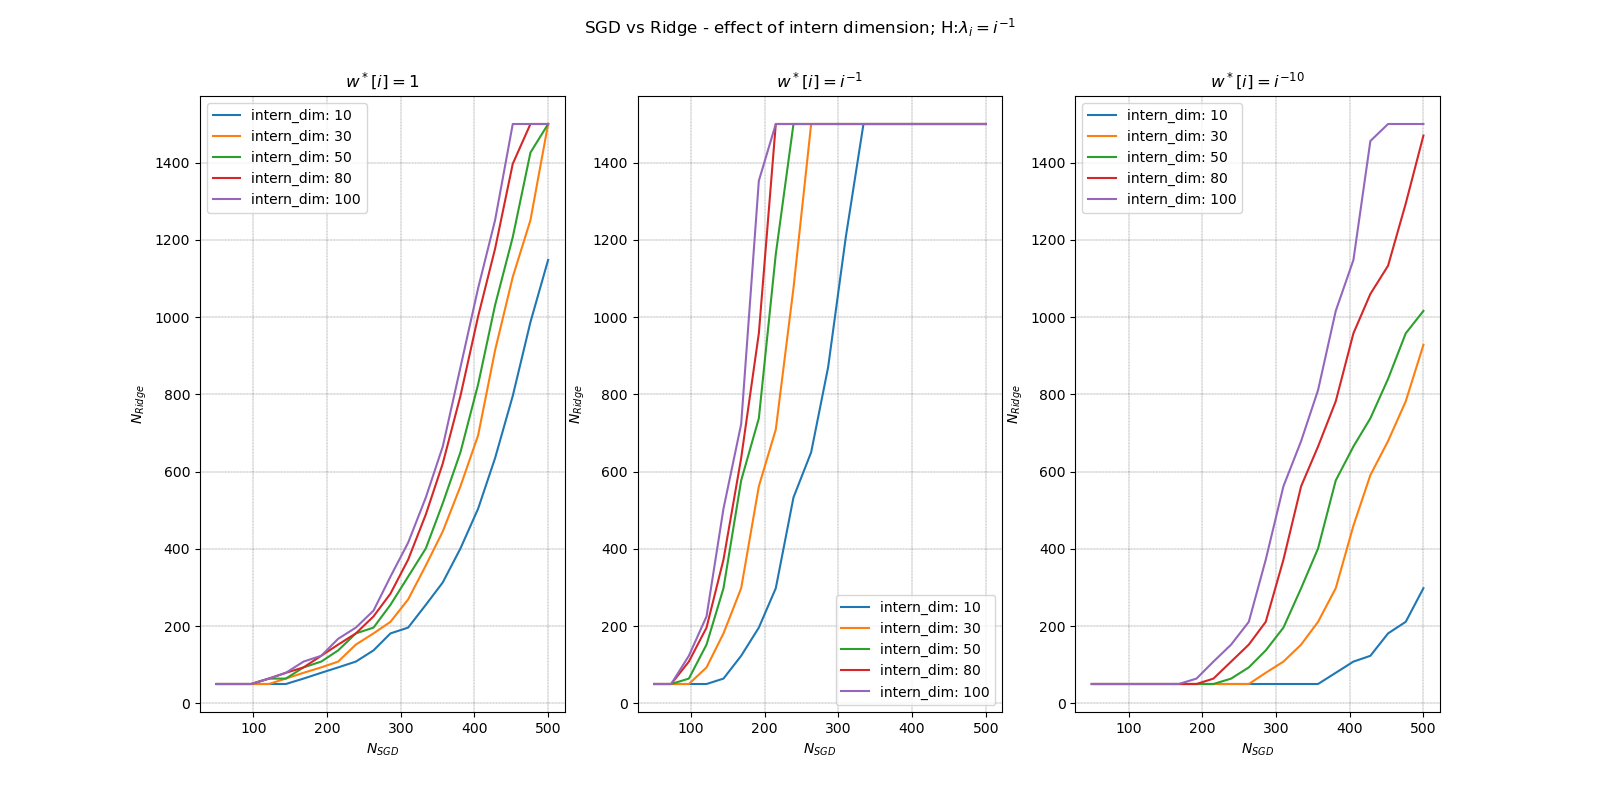
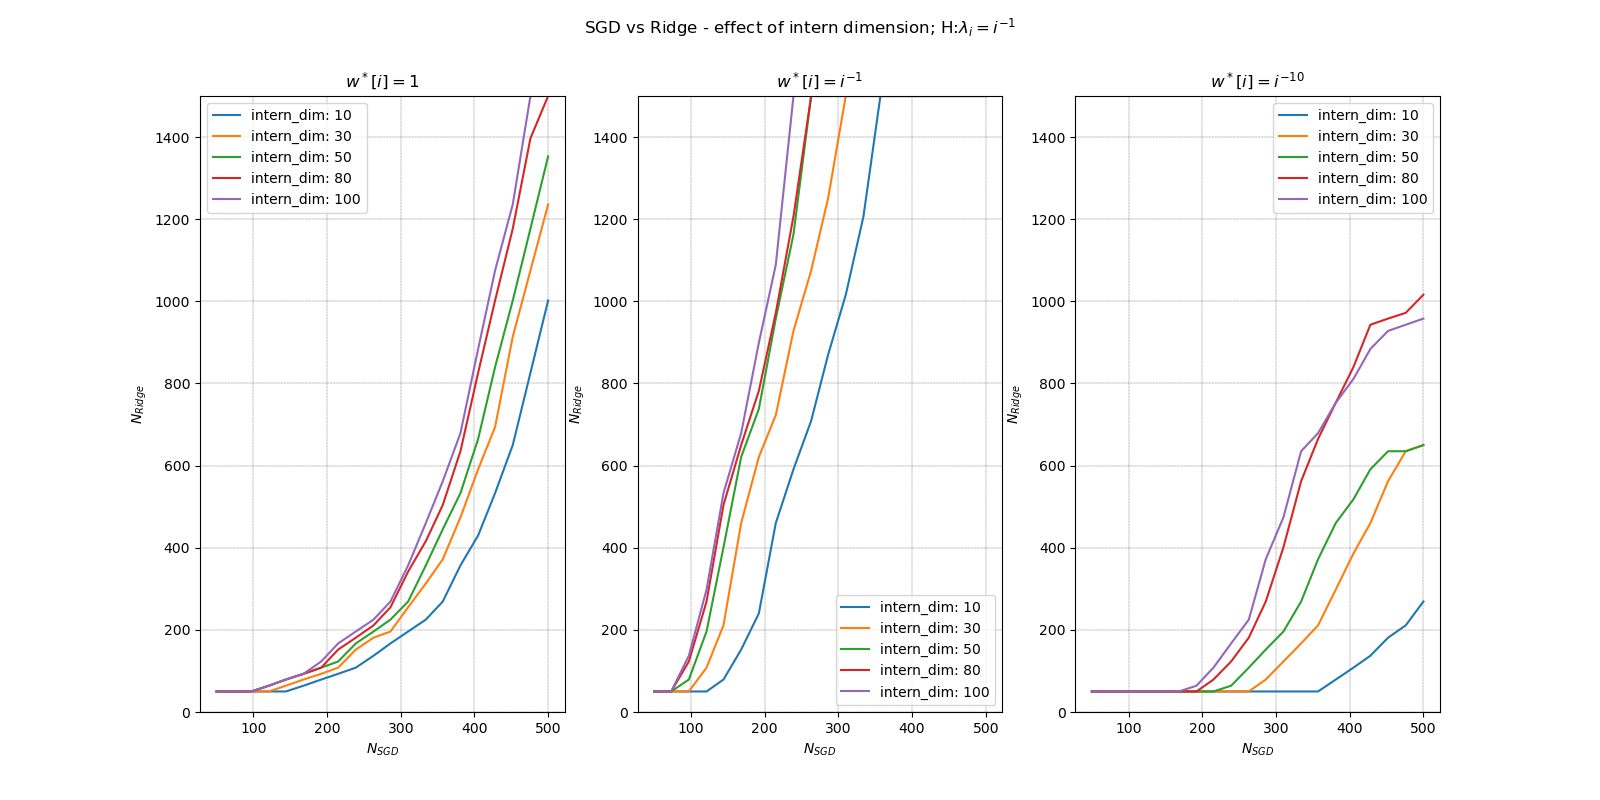
Fix graph axis & use data_gen

diff --git a/benefits_study_indimVAR.py b/benefits_study_indimVAR.py
@@ -5,20 +5,20 @@ import torch
 
 from utils import *
 
-np.random.seed(9)
-torch.manual_seed(9)
+np.random.seed(5)
+torch.manual_seed(5)
 
 ### Parameters
 COMPUTE_DATA_PLOT = True
 
-d = 200//4
+d = 50
 sigma2 = 1
 nb_avg = 20
 
 N_samples = 10000
 
-N_max_ridge = 6000//4
-N_max_sgd = 2000//4
+N_max_ridge = 1500
+N_max_sgd = 500
 n_ridge = np.floor(np.linspace(d,N_max_ridge,100)).astype(dtype=np.uint16)
 n_sgd = np.floor(np.linspace(d,N_max_sgd,20)).astype(dtype=np.uint16)
 
@@ -44,35 +44,29 @@ W_LABELS = [r'$w^*[i]=1$', r'$w^*[i]=i^{-1}$', r'$w^*[i]=i^{-10}$']
 H_LABELS = [r'$\lambda_i=i^{-1}$', r'$\lambda_i=i^{-2}$']
 COLORS = ['tab:blue', 'tab:orange', 'tab:green']
 
+### Computation of data for the plot
 if COMPUTE_DATA_PLOT:
     ### Study
+    # Initialisation
     y_plot = np.zeros((len(intern_dims), len(all_which_h), len(all_which_w), len(n_sgd))) # (h,w, n_sgd)
     sgd_risks = np.zeros((len(intern_dims), len(all_which_h), len(all_which_w), len(n_sgd)))
     ridge_risks = np.zeros((len(all_which_h), len(all_which_w), len(n_ridge)))
     # y_plot[h,w, n] contains the value n_ridge s.t loss(ridge(n_ridge)) ~= loss(sgd(n_sgd[n]))
+
     for i,which_h in enumerate(all_which_h):
         for j,which_w in enumerate(all_which_w):
+            ### Generate new data (from same distribution)
+            data, observations = generate_data(p=d, n=N_max_ridge, sigma2=sigma2, which_w=which_w, which_h=which_h)
+
             ### RIDGE PART
             suffix_ridge = suffix_filename(ridge_bool=True, w=which_w, h=which_h, d=d)
             SAVE_RIDGE_ITERATE = SAVE_DIR_RIDGE + 'iterates'+suffix_ridge+'.npy'
             w_ridge = np.load(SAVE_RIDGE_ITERATE) # (nb_avg, len(n_ridge), d)
-            ### Generate new data (from same distribution)
-            w_true = np.float_power(np.arange(1,d+1), -which_w) # true parameter
-            H = np.diag(np.float_power(np.arange(1,d+1), -which_h))
-            data = np.random.multivariate_normal(
-                np.zeros(d),
-                H,
-                size=N_samples) # shape (n,d)    
-            observations = [np.random.normal(
-                np.dot(w_true, x),
-                np.sqrt(sigma2))
-                for x in data]
-            observations = np.array(observations) # shape (n,)
-
-            ### Compute variables of interest
+            
+            # Compute variables of interest
             ridge_errors = np.zeros((nb_avg, len(n_ridge)))
-            for k1 in range(nb_avg):
-                for k2,n in enumerate(n_ridge):
+            for k1 in range(nb_avg): # for each model
+                for k2,n in enumerate(n_ridge): # for each n
                     ridge_errors[k1,k2] = objective(data, observations, w_ridge[k1,k2,:])
 
             # Outlier detection
@@ -80,25 +74,27 @@ if COMPUTE_DATA_PLOT:
                 n_out_ridge = (ridge_errors>threshold_obj).sum()
                 ridge_risks[i, j,:] = np.mean(ridge_errors, axis=0, where=ridge_errors<threshold_obj)
                 print(f'Ridge: {n_out_ridge} outliers for H{which_h}_w{which_w}')
+            else:
+                ridge_risks[i, j,:] = np.mean(ridge_errors, axis=0)
+
+
             ### SGD PART
             for k, intern_dim in enumerate(intern_dims):
                 suffix_sgd = suffix_filename(sgd_bool=True, w=which_w, h=which_h, d=d, depth=depth, intern_dim=intern_dim)
                 SAVE_SGD_ITERATE = SAVE_DIR_SGD + 'iterates'+suffix_sgd+'.npy'
                 w_sgd = np.load(SAVE_SGD_ITERATE) # (nb_avg, len(n_sgd), d)            
                 sgd_errors = np.zeros((nb_avg, len(n_sgd)))
-                for k1 in range(nb_avg):
-                    for k2,n in enumerate(n_sgd):
+                for k1 in range(nb_avg): # for each model
+                    for k2,n in enumerate(n_sgd): # for each n
                         sgd_errors[k1,k2] = objective(data, observations, w_sgd[k1,k2,:])
             
                 # Outlier detection
                 if OUTLIER_DETECTION:
                     n_out_sgd = (sgd_errors > threshold_obj).sum()
                     sgd_risks[k, i, j,:] = np.mean(sgd_errors, axis=0, where=sgd_errors<threshold_obj)
-
                     print(f'SGD: {n_out_sgd} outliers for H{which_h}_w{which_w} indim{intern_dim} ')
                 else:
                     sgd_risks[k,i, j,:] = np.mean(sgd_errors, axis=0)
-                    ridge_risks[i, j,:] = np.mean(ridge_errors, axis=0)
 
                 # for each n_sgd, search minimal n_ridge with same risk
                 for k1,n in enumerate(n_sgd):
@@ -122,6 +118,7 @@ else:
     print('Data loaded')
 
 
+### Plot part
 for i, which_h in enumerate(all_which_h):
     fig,axs = plt.subplots(1,len(all_which_w), figsize=(16,8))
     for j,which_w in enumerate(all_which_w):
@@ -132,6 +129,7 @@ for i, which_h in enumerate(all_which_h):
         axs[j].set_xlabel(r'$N_{SGD}$')
         axs[j].set_ylabel(r'$N_{Ridge}$')
         axs[j].set_title(W_LABELS[j])
+        axs[j].set_ylim(0,N_max_ridge)
 
     plt.suptitle('SGD vs Ridge - effect of intern dimension; H:'+H_LABELS[i])
     plt.savefig(SAVE_DIR_FIG+f'benefits_H{which_h}_d{d}_depth{depth}_indimVARIATION')

diff --git a/benefits_crossvalidation.py b/benefits_crossvalidation.py
@@ -6,13 +6,14 @@ import argparse
 
 from utils import *
 
+# Fix the random seed
 np.random.seed(0)
 torch.manual_seed(0)
+
 device = torch.device("cuda" if torch.cuda.is_available() else "cpu")
 
 ### Parameters
-# code parameters
-d = 200
+d = 50
 sigma2 = 1
 
 CROSS_VAL_K = 10
@@ -38,6 +39,7 @@ which_w = 10 # 0, 1 or 10 -> i**(-...)
 
 FINE_TUNE_RIDGE = True
 FINE_TUNE_SGD = False
+
 
 if __name__=='__main__':
     ### Argument parser
@@ -83,21 +85,13 @@ if __name__=='__main__':
     if FINE_TUNE_SGD:
         objectives_sgd = np.zeros(len(lambdas_))
 
-    w_true = np.float_power(np.arange(1,d+1), -which_w) # true parameter
-    H = np.diag(np.float_power(np.arange(1,d+1), -which_h))
+    ### Data generation: data (N_max_ridge,d) ; observations (N_max_ridge,)
+    data, observations = generate_data(p=d, n=N_max_ridge, sigma2=sigma2, which_w=which_w, which_h=which_h)
 
-    # data generation
-    data = np.random.multivariate_normal(
-            np.zeros(d),
-            H,
-            size=N_max_ridge) # shape (N_max_ridge,d)   
-    observations = [np.random.normal(
-        np.dot(w_true, x),
-        np.sqrt(sigma2))
-        for x in data]
-    observations = np.array(observations) # shape (n,)
-
-    train_masks_ridge, test_masks_ridge = cross_validation(N_max_ridge,k=CROSS_VAL_K, homogeneous=False, sizes=np.floor(np.linspace(d,N_max_ridge,CROSS_VAL_K)).astype(dtype=np.uint16))
+    train_masks_ridge, test_masks_ridge = cross_validation(N_max_ridge,
+                                                           k=CROSS_VAL_K, 
+                                                           homogeneous=False, 
+                                                           sizes=np.floor(np.linspace(d,N_max_ridge,CROSS_VAL_K)).astype(dtype=np.uint16))
     train_masks_sgd, test_masks_sgd = cross_validation(N_max_sgd,k=CROSS_VAL_K)
 
     # for each hyperparameter, average its performances
@@ -139,7 +133,7 @@ if __name__=='__main__':
                           return_ws=True,
                           init_norm = None,
                           lr = learning_rates[j])
-                w = np.mean(ws[len(train_mask)//2:,:], axis=0)
+                w = np.mean(ws[len(train_mask)//2:,:], axis=0) # tail averaging
                 objectives_sgd[j] += objective(data[test_mask], observations[test_mask], w)
 
     # save best parameters
@@ -153,6 +147,3 @@ if __name__=='__main__':
         print(f'Best gamma: {learning_rates[idx_best]}')
         print(f'Mean objective: {objectives_sgd[idx_best]/len(learning_rates)}')
         np.save(SAVE_SGD_GAMMA, learning_rates[idx_best])
-
-
-

diff --git a/benefits_data_generation.py b/benefits_data_generation.py
@@ -6,29 +6,29 @@ import argparse
 
 from utils import *
 
-np.random.seed(0)
-torch.manual_seed(0)
+np.random.seed(9)
+torch.manual_seed(9)
 device = torch.device("cuda" if torch.cuda.is_available() else "cpu")
 
 ### Parameters
 # code parameters
-d = 200//4
+d = 50
 sigma2 = 1
 nb_avg = 20
 
-N_max_ridge = 6000//4 # maximal nb of datapoints
-N_max_sgd = 2000//4
+N_max_ridge = 1500 # maximal nb of datapoints
+N_max_sgd = 500
 n_ridge = np.floor(np.linspace(d,N_max_ridge,100)).astype(dtype=np.uint16) # nb of datapoints for evaluations
 n_sgd = np.floor(np.linspace(d,N_max_sgd,20)).astype(dtype=np.uint16)
 
 n_fine_tune_params = 10 # nb of hyperparameters tested
 
-lambda_ = 1e-5*np.ones(len(n_ridge))
+lambda_ = 1e-5*np.ones(len(n_ridge)) # default lambda for tests
+learning_rate = 0.001*np.ones(len(n_sgd)) # default learning rates for tests
 
 intern_dim = 10
 depth = -1 # Single Layer
 optimizer = 'SGD'
-learning_rate = 0.001*np.ones(len(n_sgd))
 
 which_h = 1 # 1 or 2 -> i**(-...)
 which_w = 10 # 0, 1 or 10 -> i**(-...)
@@ -80,7 +80,8 @@ if __name__=='__main__':
     w_ridge = np.zeros((nb_avg, len(n_ridge), d))
     w_sgd = np.zeros((nb_avg, len(n_sgd), d))
 
-    if USE_SAVED_PARAMS: # load best coeffs
+    # load best coeffs
+    if USE_SAVED_PARAMS: 
         if GENERATE_SGD:
             try:
                 load = np.load(SAVE_SGD_GAMMA)
@@ -110,19 +111,8 @@ if __name__=='__main__':
 
     # Averaging results
     for i in tqdm(range(nb_avg)):
-        ### Data generation
-        w_true = np.float_power(np.arange(1,d+1), -which_w) # true parameter
-        H = np.diag(np.float_power(np.arange(1,d+1), -which_h))
-        data = np.random.multivariate_normal(
-            np.zeros(d),
-            H,
-            size=N_max_ridge) # shape (N_max_ridge,d)
-
-        observations = [np.random.normal(
-            np.dot(w_true, x),
-            np.sqrt(sigma2))
-            for x in data]
-        observations = np.array(observations) # shape (n,)
+        ### Data generation: data (N_max_ridge,d) ; observations (N_max_ridge,)
+        data, observations = generate_data(p=d, n=N_max_ridge, sigma2=sigma2, which_w=which_w, which_h=which_h)
 
         ### Solving the problem
         # Ridge

diff --git a/benefits_study.py b/benefits_study.py
@@ -5,20 +5,20 @@ import torch
 
 from utils import *
 
-np.random.seed(9)
-torch.manual_seed(9)
+np.random.seed(5)
+torch.manual_seed(5)
 
 ### Parameters
 COMPUTE_DATA_PLOT = True
 
-d = 200//4
+d = 50
 sigma2 = 1
 nb_avg = 20
 
-N_samples = 10000
+N_samples = 10000 # nb of points for evaluation of the models
 
-N_max_ridge = 6000//4
-N_max_sgd = 2000//4
+N_max_ridge = 1500
+N_max_sgd = 500
 n_ridge = np.floor(np.linspace(d,N_max_ridge,100)).astype(dtype=np.uint16)
 n_sgd = np.floor(np.linspace(d,N_max_sgd,20)).astype(dtype=np.uint16)
 
@@ -46,10 +46,12 @@ COLORS = ['tab:blue', 'tab:orange', 'tab:green']
 
 if COMPUTE_DATA_PLOT:
     ### Study
+    # Initialisation
     y_plot = np.zeros((len(all_which_h), len(all_which_w), len(n_sgd))) # (h,w, n_sgd)
     sgd_risks = np.zeros((len(all_which_h), len(all_which_w), len(n_sgd)))
     ridge_risks = np.zeros((len(all_which_h), len(all_which_w), len(n_ridge)))
     # y_plot[h,w, n] contains the value n_ridge s.t loss(ridge(n_ridge)) ~= loss(sgd(n_sgd[n]))
+
     for i,which_h in enumerate(all_which_h):
         for j,which_w in enumerate(all_which_w):
             suffix_ridge = suffix_filename(ridge_bool=True, w=which_w, h=which_h, d=d)
@@ -63,17 +65,7 @@ if COMPUTE_DATA_PLOT:
             w_sgd = np.load(SAVE_SGD_ITERATE) # (nb_avg, len(n_sgd), d)
 
             ### Generate new data (from same distribution)
-            w_true = np.float_power(np.arange(1,d+1), -which_w) # true parameter
-            H = np.diag(np.float_power(np.arange(1,d+1), -which_h))
-            data = np.random.multivariate_normal(
-                np.zeros(d),
-                H,
-                size=N_samples) # shape (n,d)    
-            observations = [np.random.normal(
-                np.dot(w_true, x),
-                np.sqrt(sigma2))
-                for x in data]
-            observations = np.array(observations) # shape (n,)
+            data, observations = generate_data(p=d, n=N_max_ridge, sigma2=sigma2, which_w=which_w, which_h=which_h)
 
             ### Compute variables of interest
             ridge_errors = np.zeros((nb_avg, len(n_ridge)))

diff --git a/utils.py b/utils.py
@@ -13,14 +13,6 @@ DIRPATH = 'models/'
 def objective(A,b,x):
     return ((A@x-b)**2).sum()/(A.shape[0])
 
-def objective_nonlinear(A,b,Xs):
-    x = Xs[0]
-    for k in range(1,len(Xs)):
-        x = Xs[k]@x
-    x = np.squeeze(x)
-    return ((A@x-b)**2).sum()/(A.shape[0])
-
-
 ### Ridge regression (L2 penalization)
 def ridge(A,b,lambda_):
     '''
@@ -253,7 +245,7 @@ def cross_validation(n, k=10, homogeneous=True, sizes=None):
         number of groups for cross-validation
     homogeneous: bool
         True to have homogeneous groups (in size)
-        False to generate uneven groups (see)
+        False to generate uneven groups (see sizes)
     sizes: (k,) array like of ints
         size of each train group, if homogeneous is True
 
@@ -272,6 +264,7 @@ def cross_validation(n, k=10, homogeneous=True, sizes=None):
             train_masks.append(train)
     else:
         assert k == len(sizes), f'sizes must be of length k={k}'
+        assert max(sizes) > n, f'a train group cannot be bigger than the number of points: k={max(sizes)}>n={n}'
         train_masks = []
         test_masks = []
         for i in range(k):
@@ -337,7 +330,7 @@ def suffix_filename(ridge_bool=False,
                     d=50,
                     depth=-1,
                     intern_dim=10):
-    assert ridge_bool or sgd_bool, 'One of sgd_bool or ridge_bool must be true'
+    assert ridge_bool or sgd_bool, 'One of sgd_bool or ridge_bool must be True'
     assert not(ridge_bool and sgd_bool), 'Both ridge_bool and sgd_bool cannot be True'
 
     if ridge_bool:
@@ -349,6 +342,7 @@ def suffix_filename(ridge_bool=False,
             suffix = f'_H{h}_w{w}_d{d}_depth{depth}_indim{intern_dim}'
 
     return suffix
+
 ### Generate n_vector of dim_p with multivariate normal distribution, rotation, and random w_true
 def generate_data_V2(p = 200, n = 6000, sigma2 = 1, which_w=1, which_h=1, w_random = 1, rotation = 1):
 
